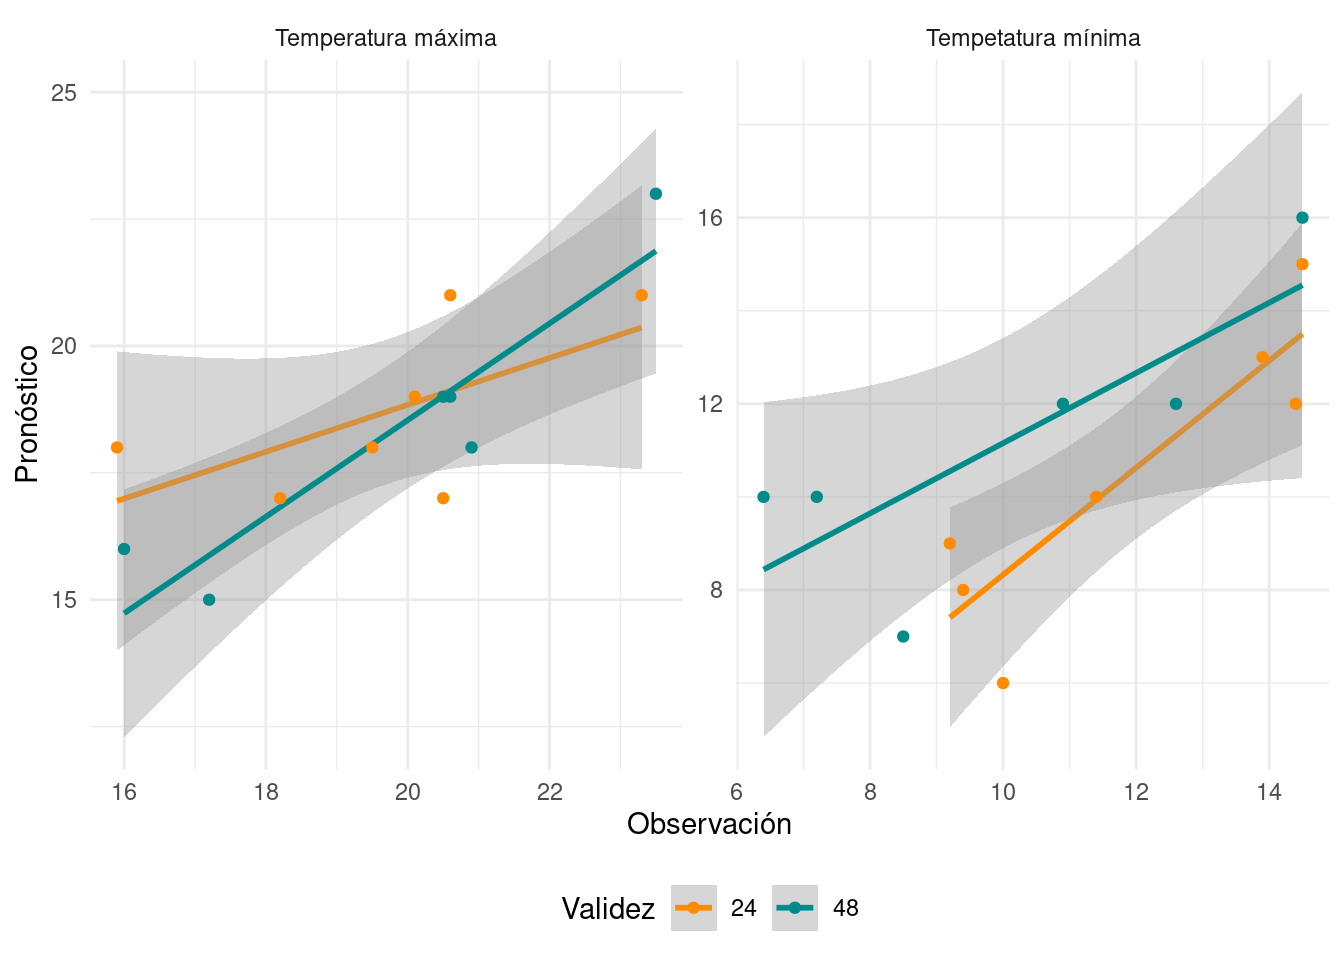
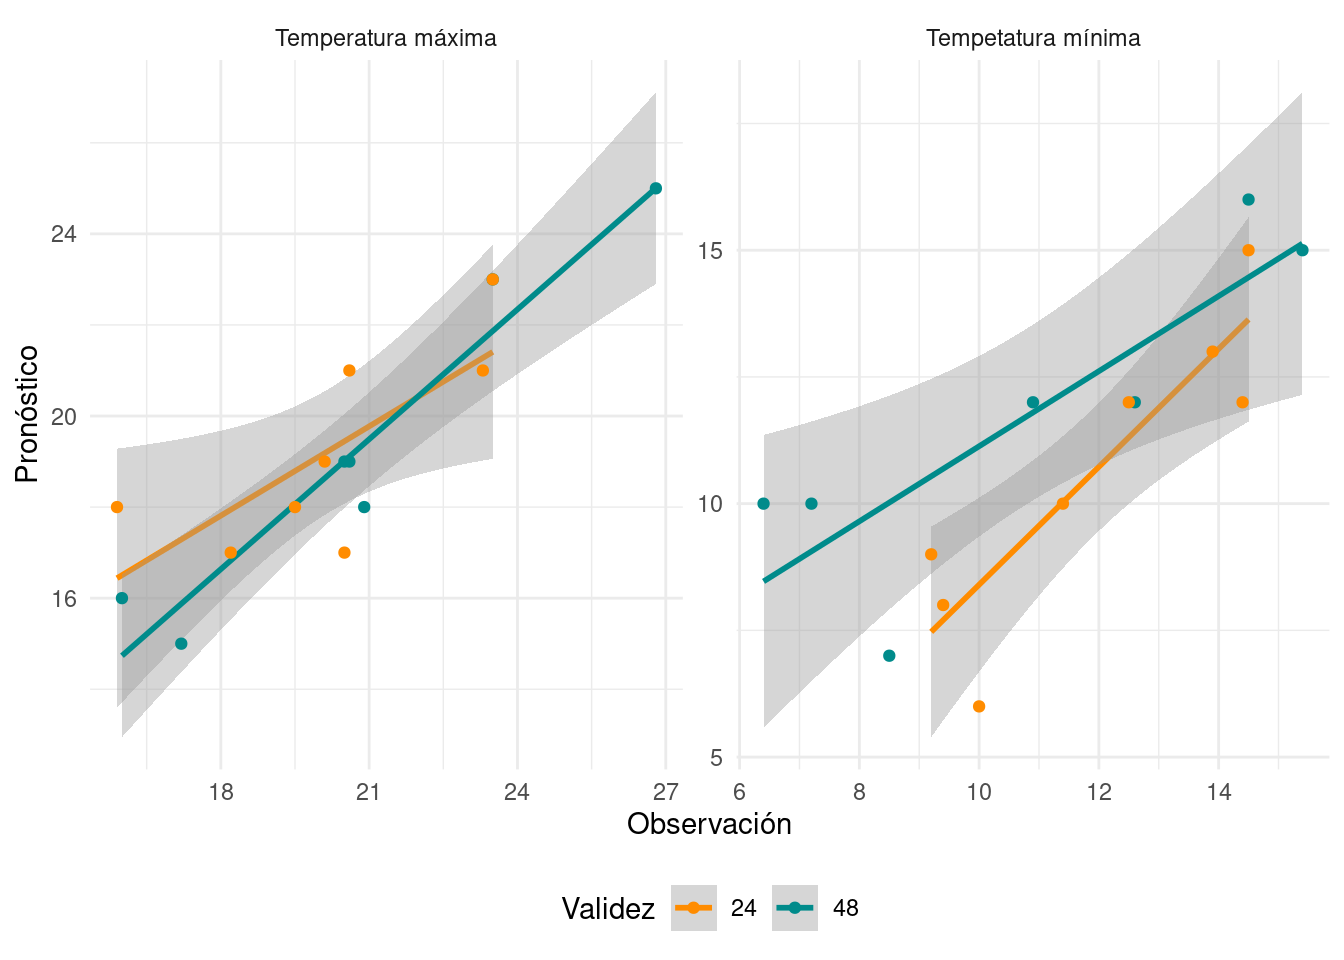
Build con prono generado el 01/10

diff --git a/docs/index.html b/docs/index.html
@@ -307,8 +307,8 @@ $(document).ready(function () {
 </div>
 
 
-<div id="análisis-del-día-28-de-septiembre-de-2020" class="section level2">
-<h2>Análisis del día 28 de septiembre de 2020</h2>
+<div id="análisis-del-día-1-de-octubre-de-2020" class="section level2">
+<h2>Análisis del día 1 de octubre de 2020</h2>
 <div id="ciudad-de-buenos-aires" class="section level3">
 <h3>Ciudad de Buenos Aires</h3>
 <table class="table table-responsive" style="margin-left: auto; margin-right: auto;">
@@ -339,45 +339,45 @@ Viento
 <tbody>
 <tr>
 <td style="text-align:left;">
-29/09/2020
+02/10/2020
 </td>
 <td style="text-align:left;max-width: 22em; ">
-Se espera buen tiempo con cielos algo nublados a despejados por la tarde y vientos leves del norte. La temperatura máxima rondará entre los 22 y los 24° mientras que la mínima se espera entre los 12 y 13 °.
+Se espera buen tiempo con cielo algo nublados por la mañana y parcialmente nublados por la tarde. Se espera una disminución de la temperatura respecto del dia anterior asociado a la presencia de viento regular a fuerte del sur con mínimas entre 7 y 8 grados y máxima entre 15 y 17 grados. La sensación térmica será entre 2 y 4 grados menor.
 </td>
 <td style="text-align:center;color: red !important;">
-23 °
+16 °
 </td>
 <td style="text-align:center;color: blue !important;">
-12 °
-</td>
-<td style="text-align:center;max-width: 7em; ">
-Algo nublado
-</td>
-<td style="text-align:center;">
-N
-</td>
-<td style="text-align:center;">
-<img src="img/algo-nublado.png" width="60" />
-</td>
-</tr>
-<tr>
-<td style="text-align:left;">
-30/09/2020
-</td>
-<td style="text-align:left;max-width: 22em; ">
-Se espera buen tiempo con cielo parcialmente nublados y aumentando hacia las últimas horas del día. Se espera un leve aumento de la temperatura con máximas de entre 24 y 27° y mínimas alrededor de 15°.
-</td>
-<td style="text-align:center;color: red !important;">
-25 °
-</td>
-<td style="text-align:center;color: blue !important;">
-15 °
+8 °
 </td>
 <td style="text-align:center;max-width: 7em; ">
 Parcialmente nublado
 </td>
 <td style="text-align:center;">
-NE
+S
+</td>
+<td style="text-align:center;">
+<img src="img/parcialmente-nublado.png" width="60" />
+</td>
+</tr>
+<tr>
+<td style="text-align:left;">
+03/02/2020
+</td>
+<td style="text-align:left;max-width: 22em; ">
+Se espera que continue el viento sostenido del SE favoreciendo una mayor disminución de la temperatura con una minína entre 6 y 7 grados y la máxima alrededor de 13 grados
+</td>
+<td style="text-align:center;color: red !important;">
+13 °
+</td>
+<td style="text-align:center;color: blue !important;">
+6 °
+</td>
+<td style="text-align:center;max-width: 7em; ">
+Parcialmente nublado
+</td>
+<td style="text-align:center;">
+SE
 </td>
 <td style="text-align:center;">
 <img src="img/parcialmente-nublado.png" width="60" />
@@ -416,48 +416,48 @@ Viento
 <tbody>
 <tr>
 <td style="text-align:left;">
-29/09/2020
+02/10/2020
 </td>
 <td style="text-align:left;max-width: 22em; ">
-Se espera buen tiempo con nubosidad en aumento a lo largo del día. El viento será leve a moderado y predominante del norte. Se esperan temperaturas mínimas de entre 8 y 10 grados y máximas de entre 27 y 29 grados.
+Se espera un día algo nublado con vientos leves del SE aumentando por la tarde a moderados y rotando hacia el E. La temperatura máxima se espera del orden de los 30 grados mientras que la mínima estará entre 13 y 15°. Se espera además nubosidad alta durante la madrugada y parte del día.
 </td>
 <td style="text-align:center;color: red !important;">
-29 °
+31 °
 </td>
 <td style="text-align:center;color: blue !important;">
-9 °
+14 °
 </td>
 <td style="text-align:center;max-width: 7em; ">
-Parcialmente nublado
+Algo nublado
 </td>
 <td style="text-align:center;">
-N
+NE
 </td>
 <td style="text-align:center;">
-<img src="img/parcialmente-nublado.png" width="60" />
+<img src="img/algo-nublado.png" width="60" />
 </td>
 </tr>
 <tr>
 <td style="text-align:left;">
-30/09/2020
+03/02/2020
 </td>
 <td style="text-align:left;max-width: 22em; ">
-Se espera un día con algo de nubosidad que podría aumentar durante horas de la tarde. Las temperaturas iran en aumento con máximas entre 31 y 33 grados
+Se espera un día mayormente nublado y vientos leves del sector este. La temperatura disminuirá gracias al desplazamiento de una masa de aire más fría generando temperaturas mńimas de entre 8 y 10 grados y máxima de entre 14 y 16. Por la tarde se espera un aumento de la nubosidad y baja probabilidad de chaparrones.
 </td>
 <td style="text-align:center;color: red !important;">
-32 °
+9 °
 </td>
 <td style="text-align:center;color: blue !important;">
-11 °
+15 °
 </td>
 <td style="text-align:center;max-width: 7em; ">
-Parcialmente nublado
+Mayormente nublado
 </td>
 <td style="text-align:center;">
-NA
+E
 </td>
 <td style="text-align:center;">
-<img src="img/parcialmente-nublado.png" width="60" />
+<img src="img/nublado.png" width="60" />
 </td>
 </tr>
 </tbody>
@@ -493,48 +493,48 @@ Viento
 <tbody>
 <tr>
 <td style="text-align:left;">
-29/09/2020
+02/10/2020
 </td>
 <td style="text-align:left;max-width: 22em; ">
-Se espera buen tiempo con cielos depejados y vientos moderados predominantes del norte. La temperatura máxima se espera entre 30 y 32 grados y la mínima de entre 12 y 14 grados
+Se espera buen tiempo con algo de nubosidad y viento moderado a regular del sur y ráfagas de entre 30 y 40 km/h. La temperatura disminuirá respecto de días anteriores debido al viento con mínima entre 8 y 10 grados y máxima entre 18 y 22.
 </td>
 <td style="text-align:center;color: red !important;">
-31 °
+20 °
 </td>
 <td style="text-align:center;color: blue !important;">
-13 °
-</td>
-<td style="text-align:center;max-width: 7em; ">
-Despejado
-</td>
-<td style="text-align:center;">
-N
-</td>
-<td style="text-align:center;">
-<img src="img/despejado.png" width="60" />
-</td>
-</tr>
-<tr>
-<td style="text-align:left;">
-30/09/2020
-</td>
-<td style="text-align:left;max-width: 22em; ">
-Durante el día se espera buen tiempo con cielos despejados a algo nublados con vientos leves del norte rotando al sur por la tarde noche. Se espera una máxima de entre 31 y 34° y una mínima de entre 14 y 16 grados.
-</td>
-<td style="text-align:center;color: red !important;">
-32 °
-</td>
-<td style="text-align:center;color: blue !important;">
-14 °
+9 °
 </td>
 <td style="text-align:center;max-width: 7em; ">
 Algo nublado
 </td>
 <td style="text-align:center;">
-N-S
+S
 </td>
 <td style="text-align:center;">
-<img src="img/algo-nublado.png" width="60" />
+<img src="img/ventoso.png" width="60" />
+</td>
+</tr>
+<tr>
+<td style="text-align:left;">
+03/02/2020
+</td>
+<td style="text-align:left;max-width: 22em; ">
+Se espera un día nublado con vientos moderados del S-SE generando una disminución marcada de la temperatura. Se espera poca amplitud térmica con minima de entre 6 y 8 grados y máxima de 12.
+</td>
+<td style="text-align:center;color: red !important;">
+12 °
+</td>
+<td style="text-align:center;color: blue !important;">
+7 °
+</td>
+<td style="text-align:center;max-width: 7em; ">
+Nublado
+</td>
+<td style="text-align:center;">
+SE
+</td>
+<td style="text-align:center;">
+<img src="img/nublado.png" width="60" />
 </td>
 </tr>
 </tbody>

diff --git a/docs/buenos-aires-val.html b/docs/buenos-aires-val.html
@@ -344,13 +344,13 @@ RMSE
 Temperatura máxima
 </td>
 <td style="text-align:center;">
--1.01
+-0.95
 </td>
 <td style="text-align:center;">
-1.73
+1.57
 </td>
 <td style="text-align:center;">
-1.82
+1.69
 </td>
 </tr>
 <tr>
@@ -361,13 +361,13 @@ Temperatura máxima
 Temperatura máxima
 </td>
 <td style="text-align:center;">
--1.45
+-1.50
 </td>
 <td style="text-align:center;">
-1.45
+1.50
 </td>
 <td style="text-align:center;">
-1.07
+0.98
 </td>
 </tr>
 <tr>
@@ -378,13 +378,13 @@ Temperatura máxima
 Temperatura mínima
 </td>
 <td style="text-align:center;">
--1.40
+-1.29
 </td>
 <td style="text-align:center;">
-1.54
+1.41
 </td>
 <td style="text-align:center;">
-1.48
+1.40
 </td>
 </tr>
 <tr>
@@ -395,13 +395,13 @@ Temperatura mínima
 Temperatura mínima
 </td>
 <td style="text-align:center;">
-1.15
+0.93
 </td>
 <td style="text-align:center;">
-1.85
+1.64
 </td>
 <td style="text-align:center;">
-1.95
+1.87
 </td>
 </tr>
 </tbody>

diff --git a/docs/salta-aero-val.html b/docs/salta-aero-val.html
@@ -344,13 +344,13 @@ RMSE
 Temperatura máxima
 </td>
 <td style="text-align:center;">
--1.25
+-1.11
 </td>
 <td style="text-align:center;">
-1.25
+1.11
 </td>
 <td style="text-align:center;">
-0.69
+0.73
 </td>
 </tr>
 <tr>
@@ -361,13 +361,13 @@ Temperatura máxima
 Temperatura máxima
 </td>
 <td style="text-align:center;">
--0.33
+-0.83
 </td>
 <td style="text-align:center;">
-1.50
+1.83
 </td>
 <td style="text-align:center;">
-2.00
+2.24
 </td>
 </tr>
 <tr>
@@ -378,13 +378,13 @@ Temperatura máxima
 Temperatura mínima
 </td>
 <td style="text-align:center;">
-0.65
+1.07
 </td>
 <td style="text-align:center;">
-2.55
+2.70
 </td>
 <td style="text-align:center;">
-3.09
+3.04
 </td>
 </tr>
 <tr>
@@ -395,13 +395,13 @@ Temperatura mínima
 Temperatura mínima
 </td>
 <td style="text-align:center;">
-0.60
+0.80
 </td>
 <td style="text-align:center;">
 2.03
 </td>
 <td style="text-align:center;">
-2.83
+2.64
 </td>
 </tr>
 </tbody>
